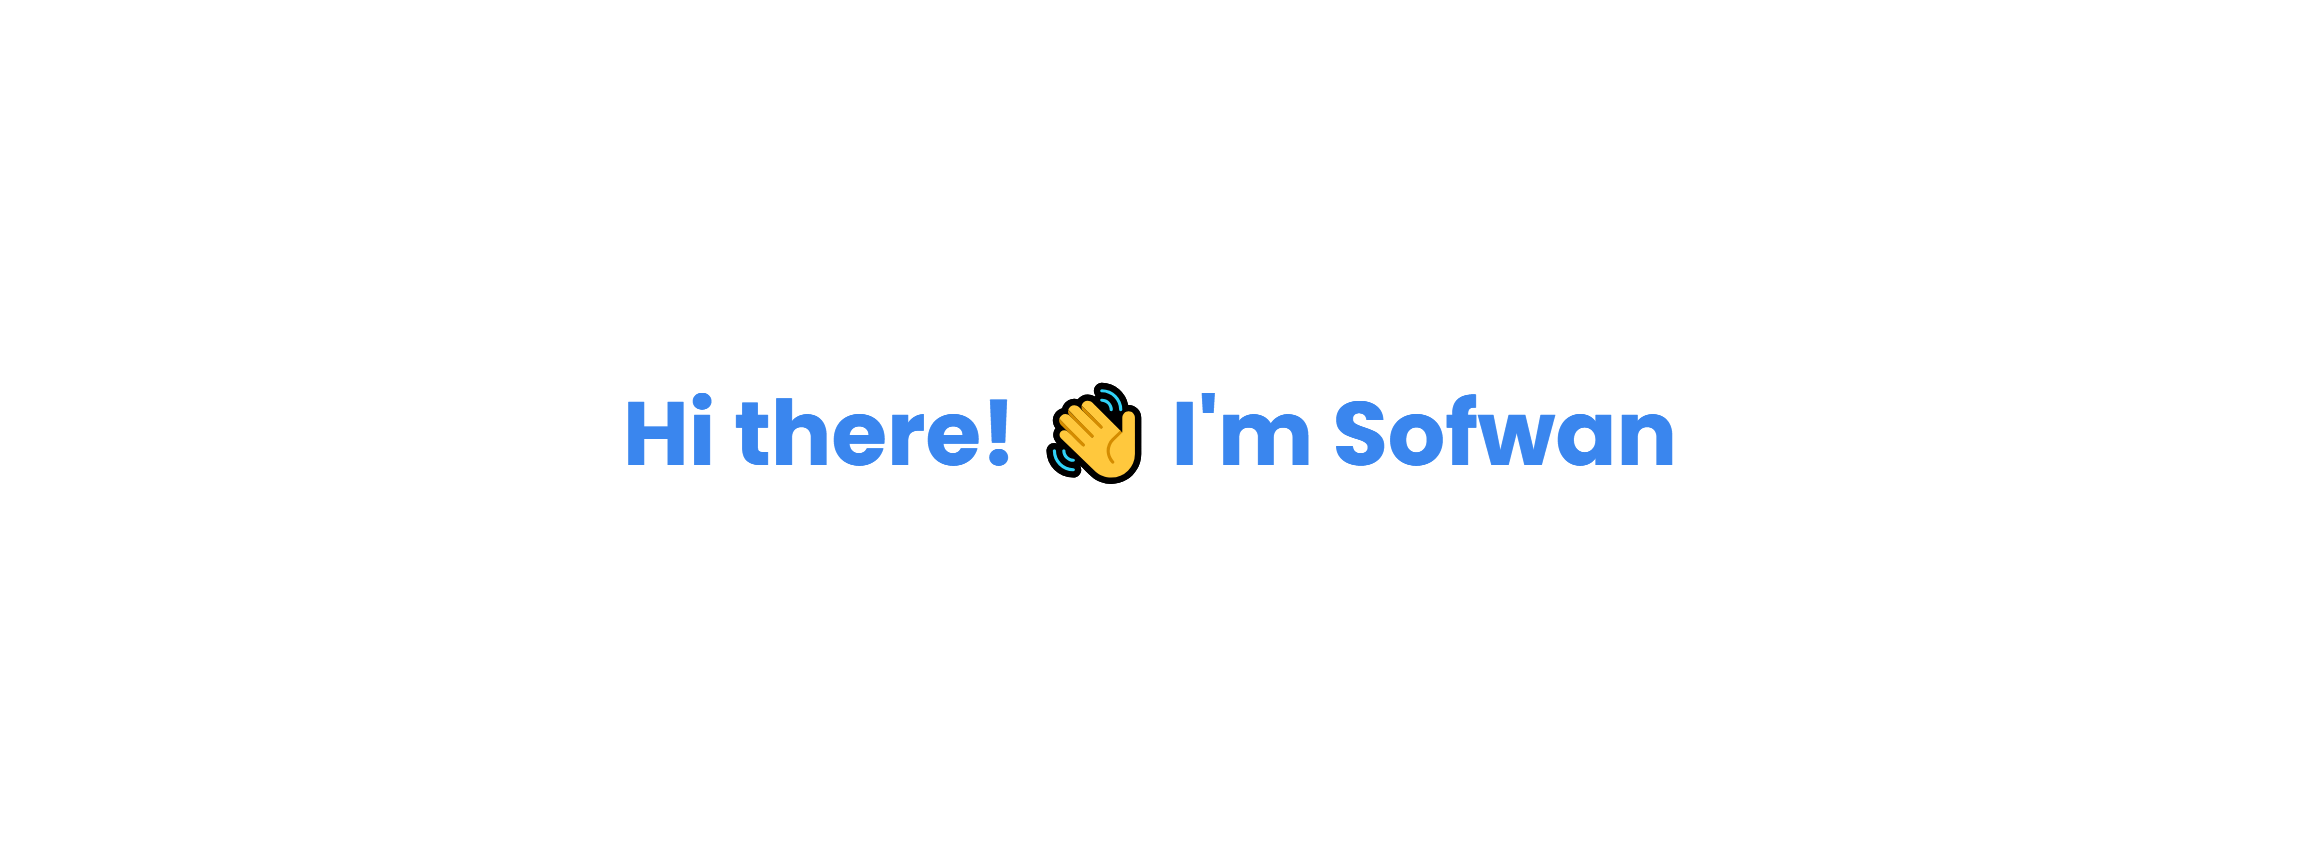
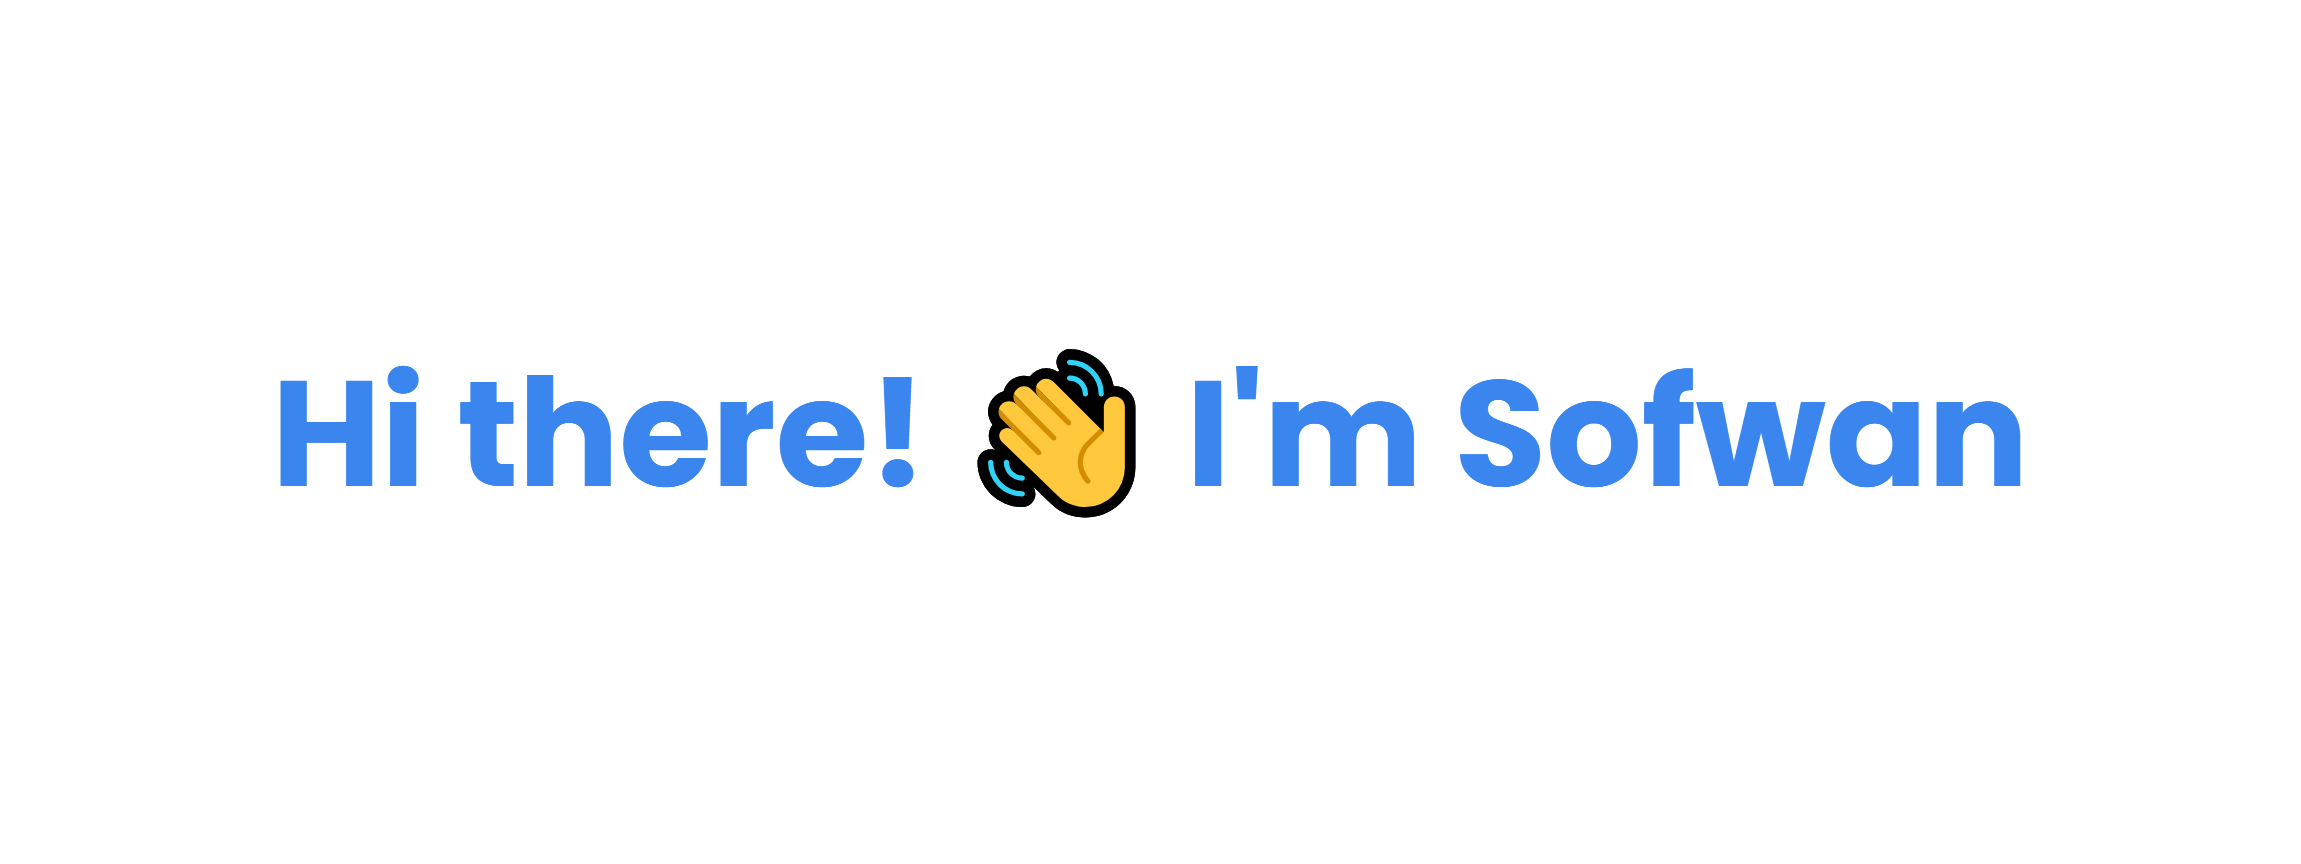
Update

Changed region(s): [[0.1234, 0.4062, 0.8948, 0.5938]]

diff --git a/README.md b/README.md
@@ -1,4 +1,4 @@
-<p align="center"><a href="https://github.com/sofwanaldirikhaldi"><img width="80%" alt="Hi there! I'm Sofwan" src="./assets/banner.png"/></a></p><br>
+<p align="center"><a href="https://github.com/sofwanaldirikhaldi"><img width="60%" alt="Hi there! I'm Sofwan" src="./assets/banner.png"/></a></p><br>
 <p>Hi there! 👋 I'm Sofwan<br/><br/>I'm a Software Engineer with over 6 years of experience<br><br><b>Languages:</b> C++, Java, Python, JavaScript, PHP, C#, SQL<br><b>Technologies:</b> HTML, CSS, Bootstrap, JQuery, DataTables, Moment.js, Telerik, Node.js, Laravel, .NET, SQL Server, Github, Bitbucket, Azure DevOps Server, Power Platform</p><br><br>
 
 | <a href="https://github.com/sofwanaldirikhaldi"><img align="center" src="https://github-readme-stats.vercel.app/api?username=sofwanaldirikhaldi&show_icons=true&include_all_commits=true&hide_border=true" alt="sofwanaldirikhaldi"/></a> | <a href="https://github.com/sofwanaldirikhaldi"><img align="center" src="https://github-readme-stats.vercel.app/api/top-langs/?username=sofwanaldirikhaldi&layout=compact&hide_border=true" alt="sofwanaldirikhaldi"/></a> |
